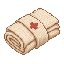
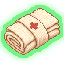
Add glowing bandage pickup to main

Changed region(s): [[0.0, 0.0312, 1.0, 0.9375]]

diff --git a/client/src/render/GameRenderer.ts b/client/src/render/GameRenderer.ts
@@ -119,7 +119,7 @@ type RenderObjects = {
   setDressingObjects: Map<string, Phaser.GameObjects.Rectangle | Phaser.GameObjects.Container>;
   pebbles: Map<string, Phaser.GameObjects.Arc>;
   weaponPickups: Map<string, Phaser.GameObjects.Rectangle>;
-  healingPickups: Map<string, Phaser.GameObjects.Rectangle>;
+  healingPickups: Map<string, Phaser.GameObjects.Image | Phaser.GameObjects.Rectangle>;
   doors: Map<string, Phaser.GameObjects.Rectangle>;
   doorKeyPickups: Map<string, Phaser.GameObjects.Star>;
   aimLine?: Phaser.GameObjects.Graphics;
@@ -438,9 +438,6 @@ function createPlayerSprite(scene: Phaser.Scene, visual: CharacterVisualDescript
 function playerImageKey(facing: Vector, walking = false): string {
   const suffix = walking ? "-walk" : "";
   if (Math.abs(facing.x) > Math.abs(facing.y)) {
-    if (walking) {
-      return facing.x < 0 ? "player-raccoon-left-walk" : "player-raccoon-right-walk";
-    }
     return facing.x < 0 ? "player-raccoon-right" : "player-raccoon-left";
   }
   return facing.y < 0 ? `player-raccoon-up${suffix}` : `player-raccoon-down${suffix}`;
@@ -789,9 +786,9 @@ function addRoomDetails(scene: Phaser.Scene): Array<Phaser.GameObjects.Rectangle
 export class GameRenderer {
   private objects: RenderObjects | null = null;
   private lastNoiseRippleAtMs = Number.NEGATIVE_INFINITY;
+  private readonly pulsingHealingPickups = new Set<string>();
   private playerImageKey: string | null = null;
   private lastPlayerRenderPosition: Vector | null = null;
-  private lastPlayerMovedAtMs = Number.NEGATIVE_INFINITY;
 
   describe(snapshot: SimulationSnapshot): RenderDescriptors {
     return {
@@ -1019,15 +1016,9 @@ export class GameRenderer {
         descriptors.player.x - this.lastPlayerRenderPosition.x,
         descriptors.player.y - this.lastPlayerRenderPosition.y,
       ) > 0.05;
-    const renderTimeMs = scene.time?.now ?? snapshot.timeMs;
-    if (playerMoved) {
-      this.lastPlayerMovedAtMs = renderTimeMs;
-    }
-    const playerWalking = !descriptors.player.hidden && renderTimeMs - this.lastPlayerMovedAtMs < 180;
-    const playerWalkPhase = renderTimeMs / 95;
-    const playerStep = playerWalking ? Math.sin(playerWalkPhase) : 0;
-    const playerWalkFrame =
-      playerWalking && Math.floor(renderTimeMs / 170) % 2 === 1;
+    const playerWalkPhase = (scene.time?.now ?? snapshot.timeMs) / 95;
+    const playerStep = playerMoved && !descriptors.player.hidden ? Math.sin(playerWalkPhase) : 0;
+    const playerWalkFrame = playerMoved && Math.sin(playerWalkPhase * 0.55) > 0;
     const nextPlayerImageKey = playerImageKey(descriptors.player.facing, playerWalkFrame);
     if (objects.player && this.playerImageKey !== null && this.playerImageKey !== nextPlayerImageKey) {
       objects.player.destroy();
@@ -1045,12 +1036,12 @@ export class GameRenderer {
     }
     const playerBounce = Math.abs(playerStep) * 2.2;
     const playerSway =
-      playerWalking && Math.abs(descriptors.player.facing.x) > Math.abs(descriptors.player.facing.y)
+      playerMoved && Math.abs(descriptors.player.facing.x) > Math.abs(descriptors.player.facing.y)
         ? Math.sign(descriptors.player.facing.x) * playerStep * 1.4
         : 0;
-    animatePlayerFeet(objects.player, descriptors.player.facing, playerWalking, playerStep);
+    animatePlayerFeet(objects.player, descriptors.player.facing, playerMoved && !descriptors.player.hidden, playerStep);
     objects.player.setPosition(descriptors.player.x + playerSway, descriptors.player.y - playerBounce);
-    objects.player.setRotation(playerWalking ? playerStep * 0.035 : 0);
+    objects.player.setRotation(playerMoved ? playerStep * 0.035 : 0);
     if (typeof objects.player.setScale === "function") {
       const sideStep = Math.abs(descriptors.player.facing.x) > Math.abs(descriptors.player.facing.y);
       objects.player.setScale(
@@ -1139,10 +1130,30 @@ export class GameRenderer {
     for (const pickup of descriptors.healingPickups) {
       const existing =
         objects.healingPickups.get(pickup.id) ??
-        scene.add.rectangle(pickup.x, pickup.y, 24, 16, 0xcfffd5, 0.96);
+        (typeof scene.add.image === "function"
+          ? scene.add.image(pickup.x, pickup.y, "bandages").setDisplaySize(32, 32)
+          : scene.add.rectangle(pickup.x, pickup.y, 24, 16, 0xcfffd5, 0.96));
       existing.setPosition(pickup.x, pickup.y);
       existing.setVisible(!pickup.collected);
-      existing.setStrokeStyle(2, 0x72d18b, 0.85);
+      if (pickup.collected) {
+        scene.tweens?.killTweensOf?.(existing);
+        existing.setAlpha?.(1);
+        existing.setScale?.(0.5);
+        this.pulsingHealingPickups.delete(pickup.id);
+      } else if (typeof scene.add.image === "function" && !this.pulsingHealingPickups.has(pickup.id)) {
+        existing.setAlpha?.(1);
+        existing.setScale?.(0.5);
+        scene.tweens?.add?.({
+          targets: existing,
+          scale: 0.57,
+          alpha: 1,
+          duration: 760,
+          ease: "Sine.easeInOut",
+          yoyo: true,
+          repeat: -1,
+        });
+        this.pulsingHealingPickups.add(pickup.id);
+      }
       objects.healingPickups.set(pickup.id, existing);
     }
 

diff --git a/tests/client/renderer.test.ts b/tests/client/renderer.test.ts
@@ -353,9 +353,9 @@ describe("GameRenderer", () => {
         container.depth === 18,
     );
 
-    expect(playerContainer?.childCount).toBeGreaterThanOrEqual(17);
+    expect(playerContainer?.childCount).toBeGreaterThanOrEqual(5);
     const playerColors = playerContainer?.colors ?? [];
-    expect(playerColors).toEqual(expect.arrayContaining([0xff5f56, 0xffd166, 0xf8fbff]));
+    expect(playerColors).toEqual(expect.arrayContaining([0xffd166, 0xf8fbff]));
   });
 
   it("renders set dressing props as pixel object containers", () => {

diff --git a/client/src/scenes/BootScene.ts b/client/src/scenes/BootScene.ts
@@ -6,6 +6,7 @@ export class BootScene extends Phaser.Scene {
   }
 
   preload(): void {
+    this.load.image("bandages", "assets/bandages.png");
     this.load.image("cot-side", "assets/cot-side.png");
     this.load.image("player-raccoon-down", "assets/player-raccoon-down.png");
     this.load.image("player-raccoon-down-walk", "assets/player-raccoon-down-walk.png");